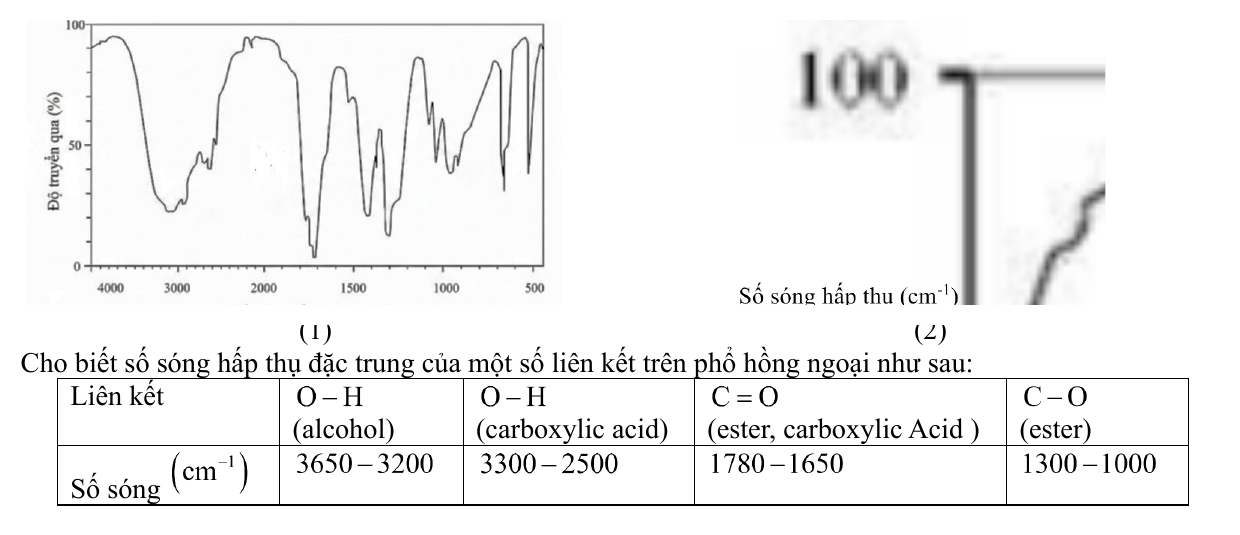
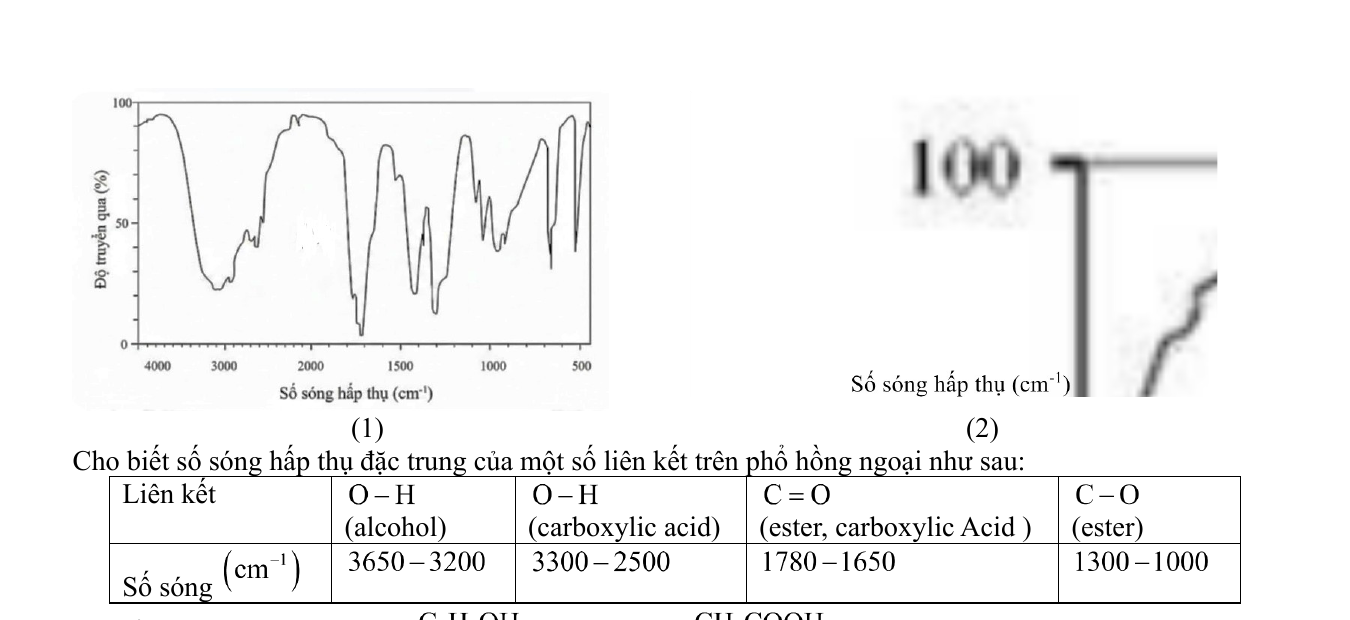
Fix câu 20 Hưng Yên: re-crop q20.png to include full hình 2 and IR table
- Replace 1240x535 crop with 1350x620 (full page width, proper bottom boundary)
- New crop shows complete bảng số sóng hấp thụ with bottom border
- Bump CROP_ASSET_VERSION to 20260519a for cache busting

Changed region(s): [[0.0, 0.0299, 0.95, 1.0], [0.1839, 0.329, 0.2145, 0.3888]]

diff --git a/features/giup-cy/exam-assets.ts b/features/giup-cy/exam-assets.ts
@@ -20,7 +20,7 @@ type Week2Asset = {
 };
 
 const ASSET_VERSION = "student-clean-20260516";
-const CROP_ASSET_VERSION = "question-crops-20260517c";
+const CROP_ASSET_VERSION = "question-crops-20260519a";
 const week2Assets = week2AssetsData as Record<string, Week2Asset>;
 
 function buildPages(basePath: string, count: number, width: number, height: number, padded = true) {
@@ -95,7 +95,7 @@ export function getQuestionSourceAsset(exam: Pick<GiupCyExamRow, "slug" | "sourc
 
   if (source.includes("hung-yen")) {
     const cropSizes: Record<number, Pick<ExamPageAsset, "url" | "width" | "height">> = {
-      20: { url: `/exam-assets/hung-yen-hki/crops/q20.png?v=${CROP_ASSET_VERSION}`, width: 1240, height: 535 },
+      20: { url: `/exam-assets/hung-yen-hki/crops/q20.png?v=${CROP_ASSET_VERSION}`, width: 1350, height: 620 },
       21: { url: `/exam-assets/hung-yen-hki/crops/q21.png?v=${CROP_ASSET_VERSION}`, width: 1210, height: 150 },
       23: { url: `/exam-assets/hung-yen-hki/crops/q23.png?v=${CROP_ASSET_VERSION}`, width: 751, height: 413 },
       24: { url: `/exam-assets/hung-yen-hki/crops/q24.png?v=${CROP_ASSET_VERSION}`, width: 1200, height: 84 },